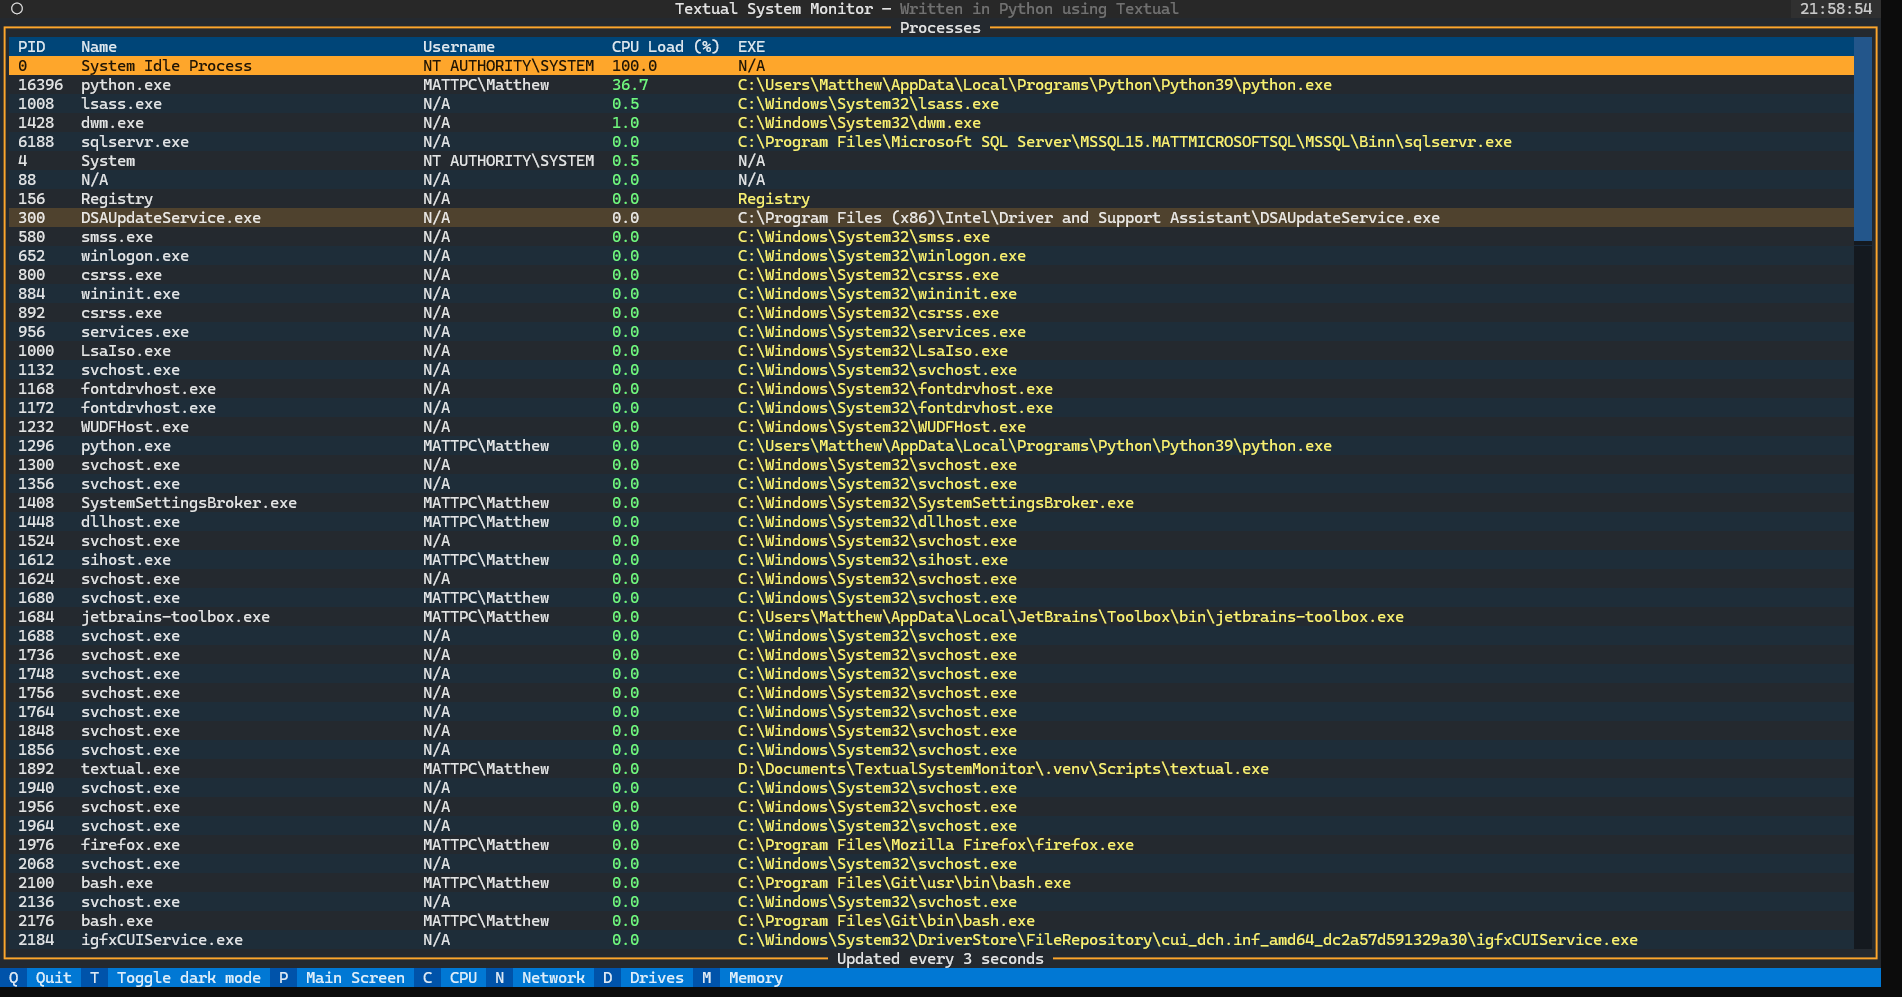
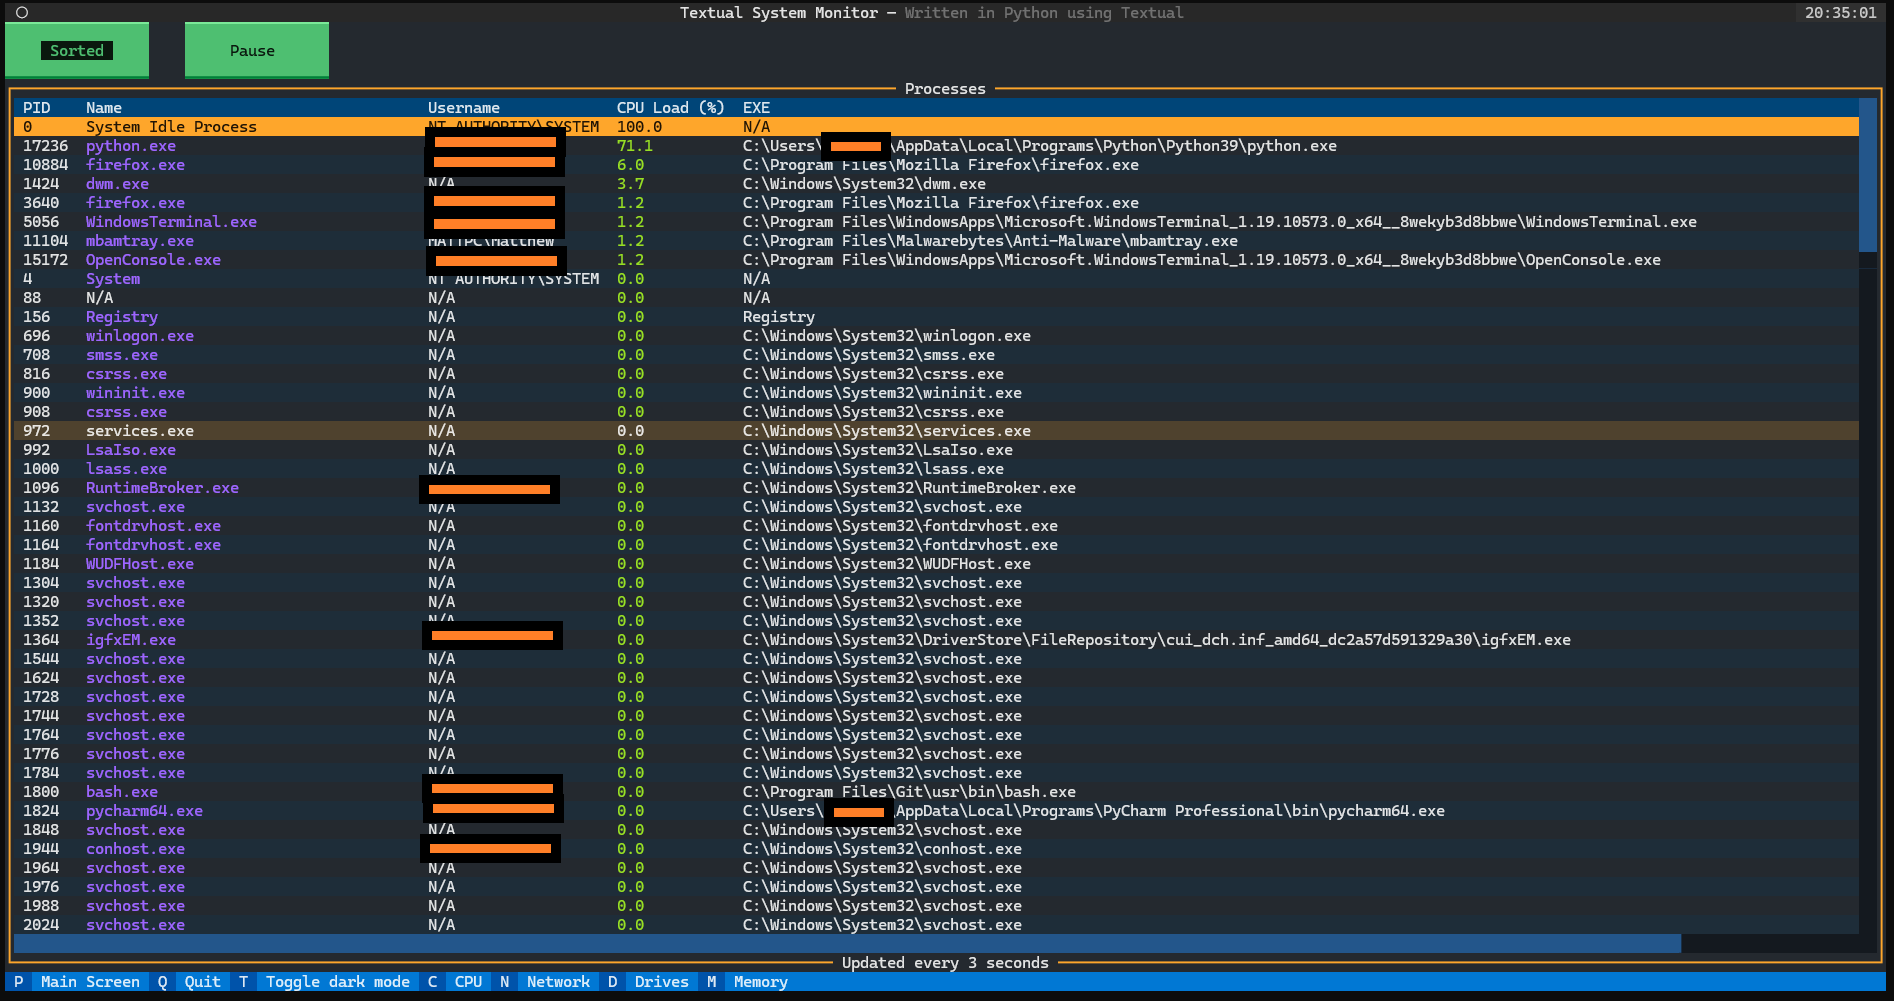
Updated screenshot and EXAMPLES.md

Changed region(s): [[0.0, 0.0, 0.9968, 0.995]]

diff --git a/EXAMPLES.md b/EXAMPLES.md
@@ -54,6 +54,9 @@ When clicking the Processes pane or pressing the corresponding `p` key, the foll
 This shows a nice table view of running processes. While the Processes pane on the Main screen showed only the top 10
 heaviest processes, this dedicated Processes screen shows all running processes (again, in order of CPU load).
 
+This screen also has a `Sorted` button, which toggles whether the processes are sorted by CPU load.
+The `Pause` button toggles whether to pause updating the list or not.
+
 # Drives
 
 When clicking the Drives pane on the Main screen, or clicking the `d` key, the Drives screen appears:
